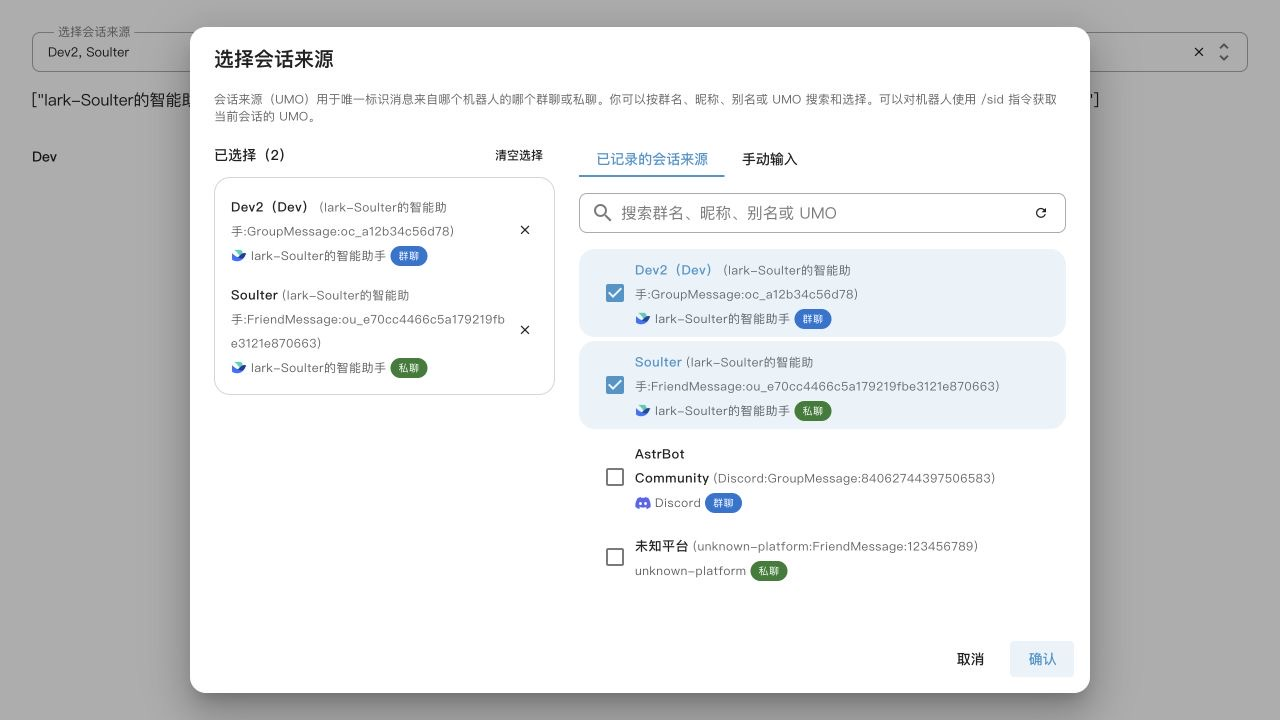
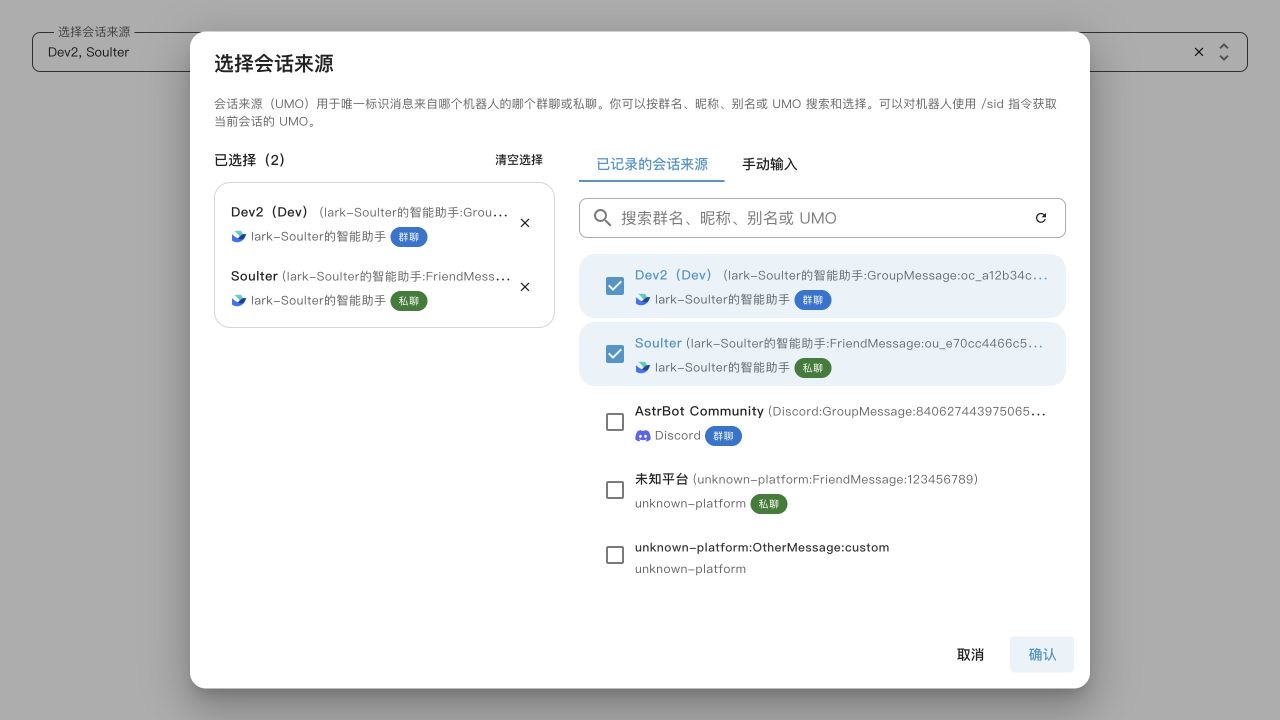
fix(dashboard): keep session titles single-line with consistent fonts

diff --git a/dashboard/src/components/shared/UmoDisplay.vue b/dashboard/src/components/shared/UmoDisplay.vue
@@ -1,7 +1,10 @@
 <template>
   <div class="umo-display" :class="{ 'umo-display--compact': compact }">
     <div class="umo-display__main">
-      <div class="umo-display__line">
+      <div
+        class="umo-display__line"
+        :title="showRawTitle ? displayNameTitle : displayName"
+      >
         <span
           class="umo-display__name"
           :class="{ 'umo-display__name--umo': !hasReadableName }"
@@ -197,7 +200,9 @@ export default {
 
 .umo-display__line {
   min-width: 0;
-  overflow-wrap: anywhere;
+  overflow: hidden;
+  text-overflow: ellipsis;
+  white-space: nowrap;
 }
 
 .umo-display__platform {
@@ -213,8 +218,6 @@ export default {
 
 .umo-display__name--umo {
   color: rgba(var(--v-theme-on-surface), 0.78);
-  font-family: ui-monospace, SFMono-Regular, Menlo, Monaco, Consolas,
-    "Liberation Mono", monospace;
   font-size: 12px;
 }
 

diff --git a/docs/en/dev/star/guides/plugin-config.md b/docs/en/dev/star/guides/plugin-config.md
@@ -98,7 +98,7 @@ The **_special** field is only available after v4.0.0. Common values include `se
 - `select_provider`, `select_provider_tts`, `select_provider_stt`, and `select_persona` return strings.
 - `select_knowledgebase` returns a `list` and supports multiple selection, so the corresponding config item should use `type: list` with a default value of `[]`.
 - `sender_id` opens the Select users dialog with search by nickname, ID or source session, saving only user IDs. Use `type: list` with a default value of `[]`. The list shows 50 results per page, supports previous/next navigation and selections across pages, and returns to the first page when searching or refreshing. Only recorded users are searched; historical messages are not backfilled.
-- `umo` opens the Select session sources dialog with search by group name, nickname, alias or UMO. Use `type: string` with a default of `""` for a single UMO string, or `type: list` with a default of `[]` for multiple UMOs. Each entry shows the full UMO in gray parentheses after its name, with the bot ID below; group-chat badges are blue and private-chat badges are green.
+- `umo` opens the Select session sources dialog with search by group name, nickname, alias or UMO. Use `type: string` with a default of `""` for a single UMO string, or `type: list` with a default of `[]` for multiple UMOs. Each entry shows the full UMO in gray parentheses after its name, with the bot ID below; group-chat badges are blue and private-chat badges are green. All entries use the interface font. Titles stay on one line with an ellipsis when truncated; hover to view the full name and UMO.
 
 For example, add the following to `_conf_schema.json`:
 

diff --git a/changelogs/unreleased.md b/changelogs/unreleased.md
@@ -8,7 +8,7 @@
 
 - Fetch QQ Official group names before creating inbound events in both WebSocket and Webhook adapters. Share a bounded per-bot cache with `event.get_group()`, caching successful names for one hour and failed or empty lookups for five minutes, coalescing concurrent requests and limiting each lookup to three seconds.
 
-- Display full UMOs in gray parentheses beside session names, with platform logos and plain bot IDs below. Add blue group-chat and green private-chat badges using the same colors as Agent/Command badges on the trace page.
+- Display full UMOs in gray parentheses beside session names, with platform logos and plain bot IDs below. Use the interface font throughout the list. Keep titles on one line, ellipsizing long values while exposing the full name and UMO on hover. Add blue group-chat and green private-chat badges using the same colors as Agent/Command badges on the trace page.
 
 - Paginate user suggestions after platform-aware deduplication, with 50 results per page, previous/next controls and selections preserved across pages. Searching and refreshing return to the first page.
 
